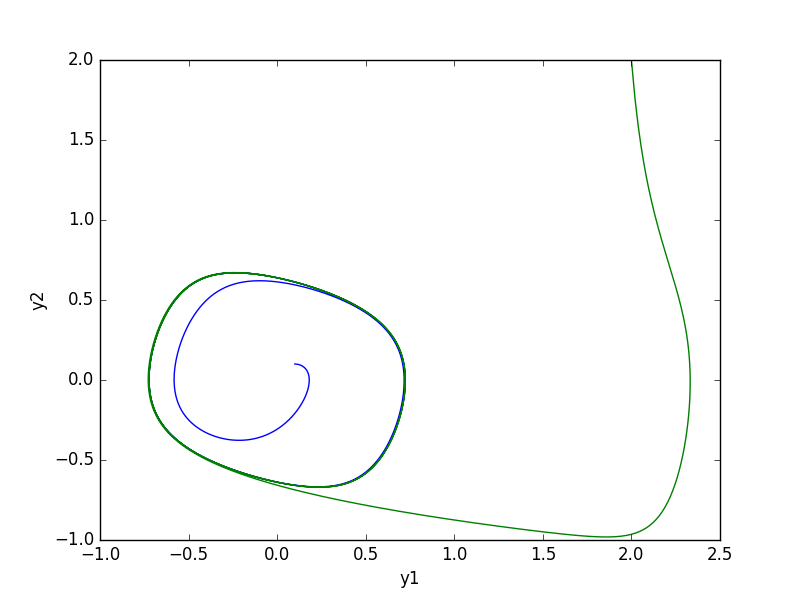
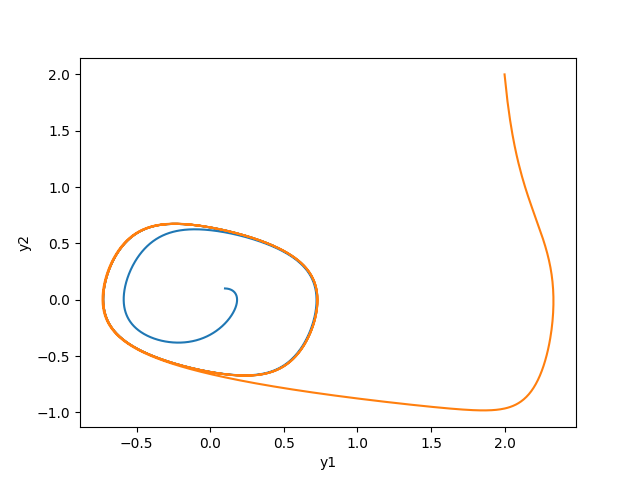
корректировка 1 лабораторной работы

diff --git a/chapter-1.tex b/chapter-1.tex
@@ -35,9 +35,13 @@ $y_1$ и $y_2$ (Система уравнений \ref{lab:eq:3}). В дальн
 Преобразовав систему к удобному для нас виду, перейдем к первой части работы --
 нахождения такого параметра $\nu$, при котором наблюдается предельный цикл.
 
-Для начала, дадим определение искомому объекту: \textit{предельным циклом} мы
-будем называть замкнутую изолированную траекторию в фазовом пространстве,
-подразумевая замкнутость в смысле периодичности поведения системы.
+Для начала, дадим определение искомому объекту.
+
+\begin{definition}\label{lab:def:cycle}
+  Предельным циклом будем называть замкнутую изолированную траекторию
+  в фазовом пространстве, подразумевая замкнутость в смысле периодичности
+  поведения системы.
+\end{definition}
 
 Таким образом, нам нужно построить фазовый портрет нашей системы, на котором
 нужно будет обнаружить искомую замкнутую линию. Для этого, зная зависимость
@@ -101,8 +105,8 @@ def line(y1_0, y2_0):
     y2 = [y2_0]
     h = 0.01 # длина шага
     for i in range(2000): # 200o - количество итераций
-        y1.append(y1[-1] + h*(y2[-1]))
-        y2.append(y2[-1] + h*(-3*y2[-1] ** 3 + nu*y2[-1] - y1[-1]))
+        y1.append(y1[i] + h*(y2[i]))
+        y2.append(y2[i] + h*(-3*y2[i] ** 3 + nu*y2[i] - y1[i]))
     # отображение кривой на графике
     ax0.plot(y1, y2)
 

diff --git a/listings/lab1.py b/listings/lab1.py
@@ -25,9 +25,9 @@ def line(y1_0, y2_0):
     y2 = [y2_0]
     h = 0.01 # длина шага
     for i in range(2000): # 2000 - количество итераций
-        y1.append(y1[-1] + h*(y2[-1]))
-        y2.append(y2[-1] + 
-                  h * (-3*y2[-1] ** 3 + nu*y2[-1] - y1[-1]))
+        y1.append(y1[i] + h*(y2[i]))
+        y2.append(y2[i] +
+                  h * (-3*y2[i] ** 3 + nu*y2[i] - y1[i]))
     # отображение кривой на графике
     ax.plot(y1, y2)
 

diff --git a/rpz.tex b/rpz.tex
@@ -20,6 +20,10 @@
 \newfloat{program}{th}{lop}
 \floatname{program}{Листинг}
 
+
+\newtheorem{theorem}{Теорема}
+\newtheorem{definition}{Определение}
+
 \begin{document}
 
 \pagestyle{empty}
